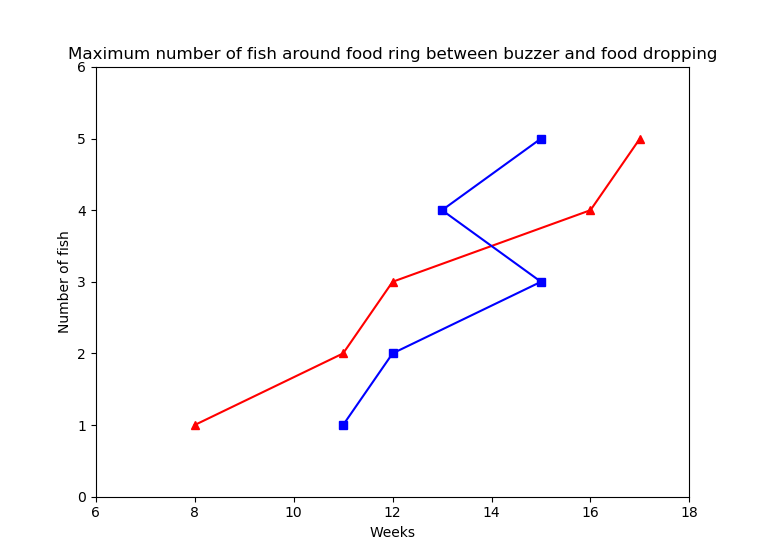
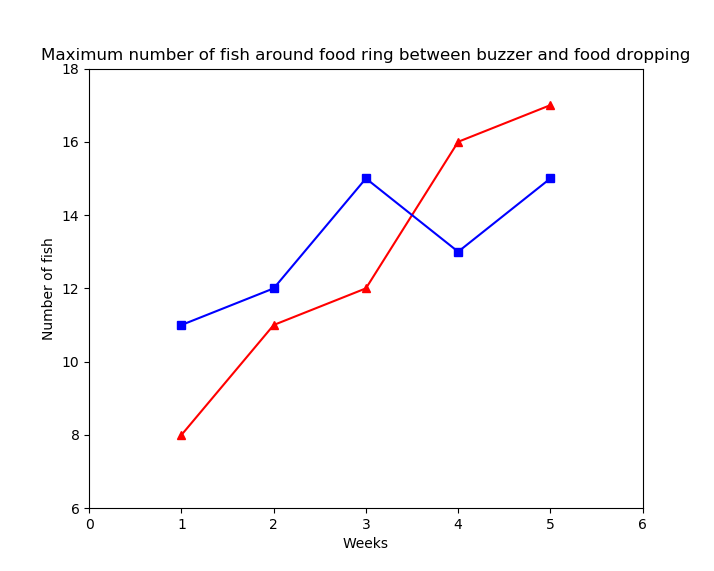
fix for the max number to switch the axis around

diff --git a/VideoTracking/DataAnalysing/GraphMaxNumber.py b/VideoTracking/DataAnalysing/GraphMaxNumber.py
@@ -9,9 +9,9 @@ import matplotlib.pyplot as plt
 plt.figure(1)
 
 # plot the maximum number with week number.
-plt.plot([8, 11, 12, 16, 17], [1, 2, 3, 4, 5], 'r^', [8, 11, 12, 16, 17], [1, 2, 3, 4, 5], 'r',
-         [11, 12, 15, 13, 15], [1, 2, 3, 4, 5], 'bs', [11, 12, 15, 13, 15], [1, 2, 3, 4, 5], 'b')
-plt.axis([6, 18, 0, 6])
+plt.plot([1, 2, 3, 4, 5], [8, 11, 12, 16, 17], 'r^', [1, 2, 3, 4, 5], [8, 11, 12, 16, 17], 'r',
+         [1, 2, 3, 4, 5], [11, 12, 15, 13, 15], 'bs', [1, 2, 3, 4, 5], [11, 12, 15, 13, 15], 'b')
+plt.axis([0, 6, 6, 18])
 plt.title("Maximum number of fish around food ring between buzzer and food dropping")
 plt.ylabel("Number of fish")
 plt.xlabel("Weeks")
